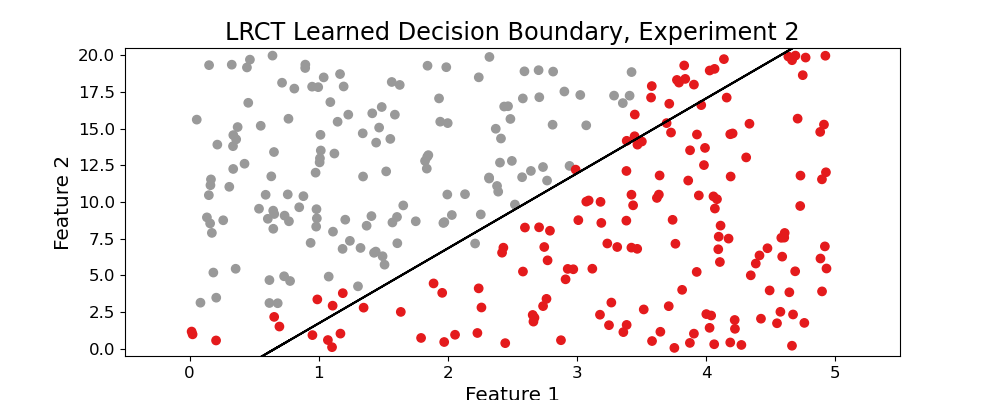
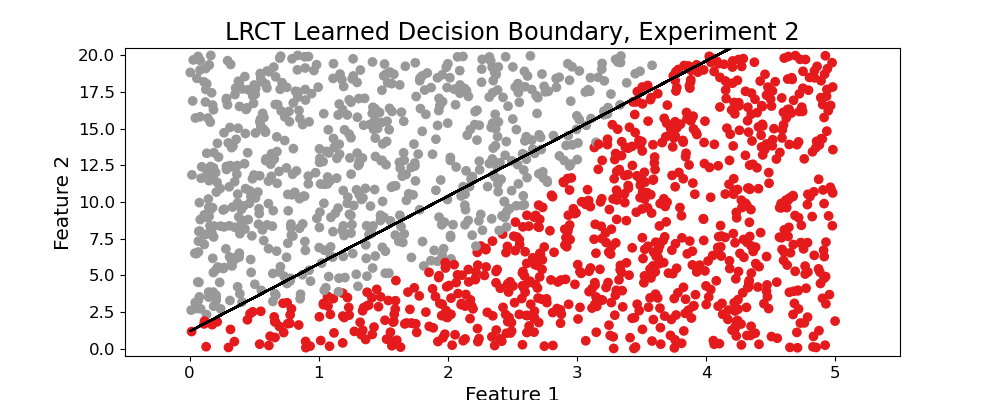
updating experiment 3

Changed region(s): [[0.186, 0.12, 0.837, 0.9]]

diff --git a/experiments/set_3_2VarPolynomial.py b/experiments/set_3_2VarPolynomial.py
@@ -16,10 +16,10 @@ import matplotlib.pyplot as plt
 if __name__ == '__main__':
     # Generate the data, domain for x0 is [0, 5], domain for x1 is [0, 20]
     np.random.seed(4736)
-    two_var_x = np.random.random((1000, 2))
+    two_var_x = np.random.random((5000, 2))
     two_var_x[:, 0] = two_var_x[:, 0] * 5
     two_var_x[:, 1] = two_var_x[:, 1] * 20
-    target = (two_var_x[:, 1] > 2 + 2*two_var_x[:, 0] - two_var_x[:, 0]**2 + (two_var_x[:, 0]**3)/5).astype(int)
+    target = (two_var_x[:, 1] > 2 + 2*two_var_x[:, 0] - two_var_x[:, 0]**2 + (two_var_x[:, 0]**3)/2).astype(int)
 
     # Create train, val, test sets
     x_train_val, x_test, y_train_val, y_test = train_test_split(two_var_x, target, test_size = 0.3, random_state = 134456)
@@ -43,7 +43,7 @@ if __name__ == '__main__':
     plt.savefig('exp3/exp_3_training.png')
 
     # Train the models
-    lrct = LRCTree(max_depth = 1).fit(x_train, y_train)
+    lrct = LRCTree(max_depth = 1, highest_degree = 3).fit(x_train, y_train)
     cart = DecisionTreeClassifier(max_depth = 1).fit(x_train, y_train)
     oc1 = ObliqueTree(splitter = 'oc1')
     oc1.fit(x_train, y_train)
